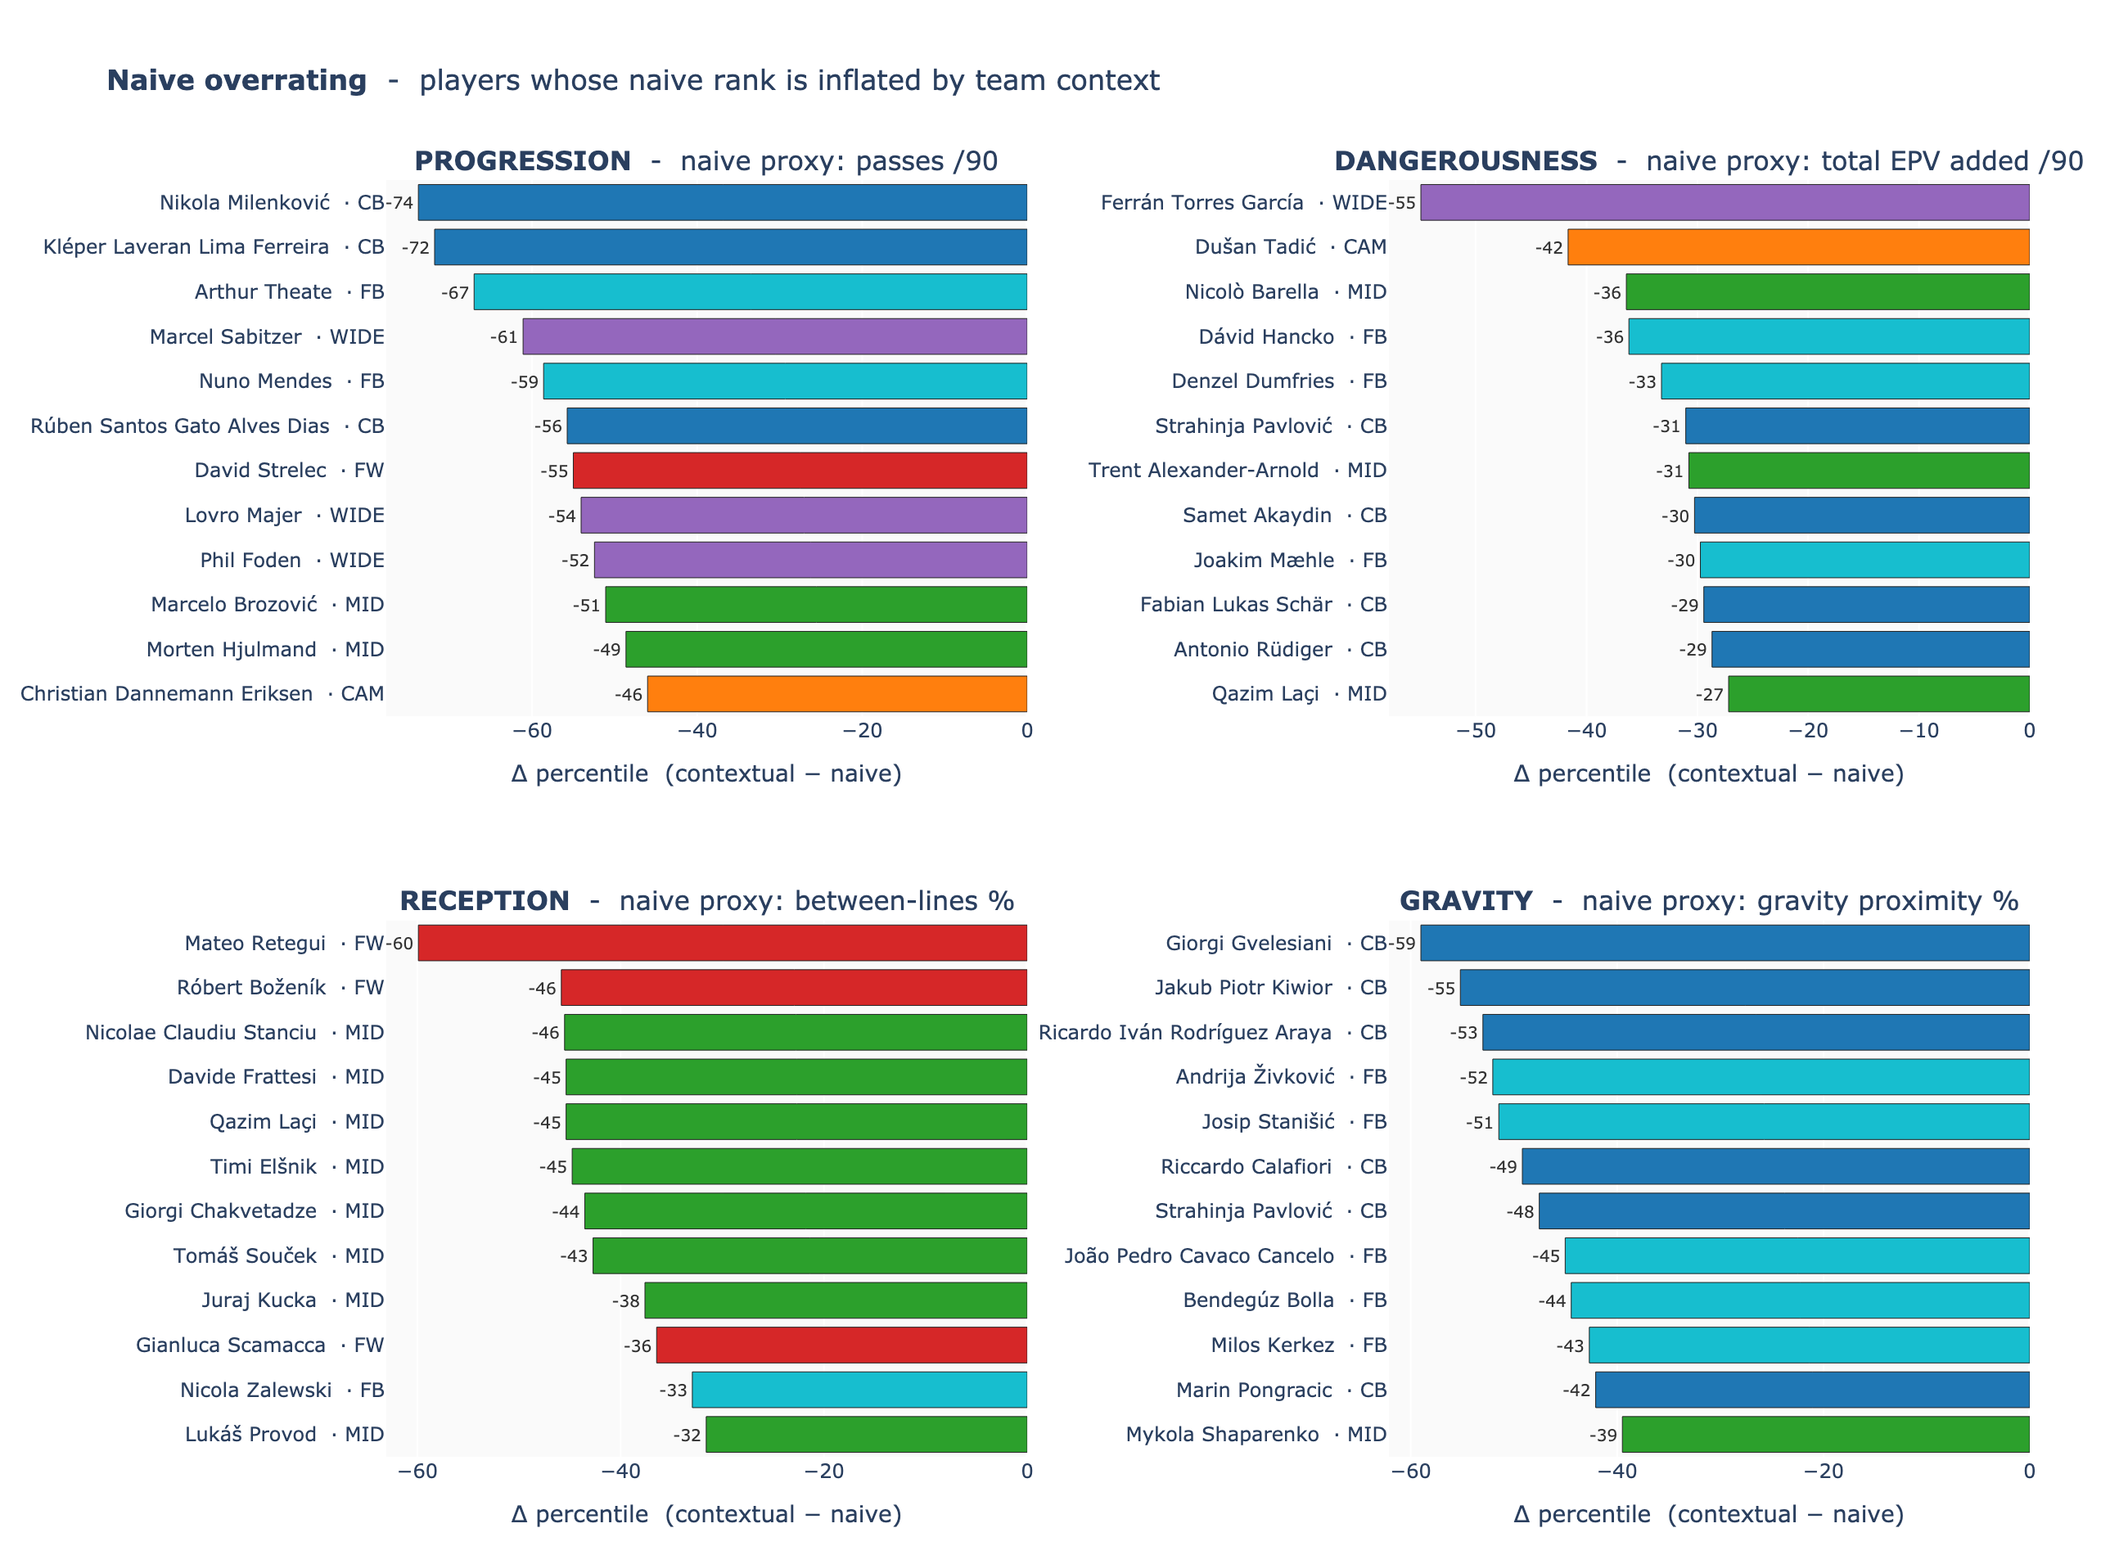
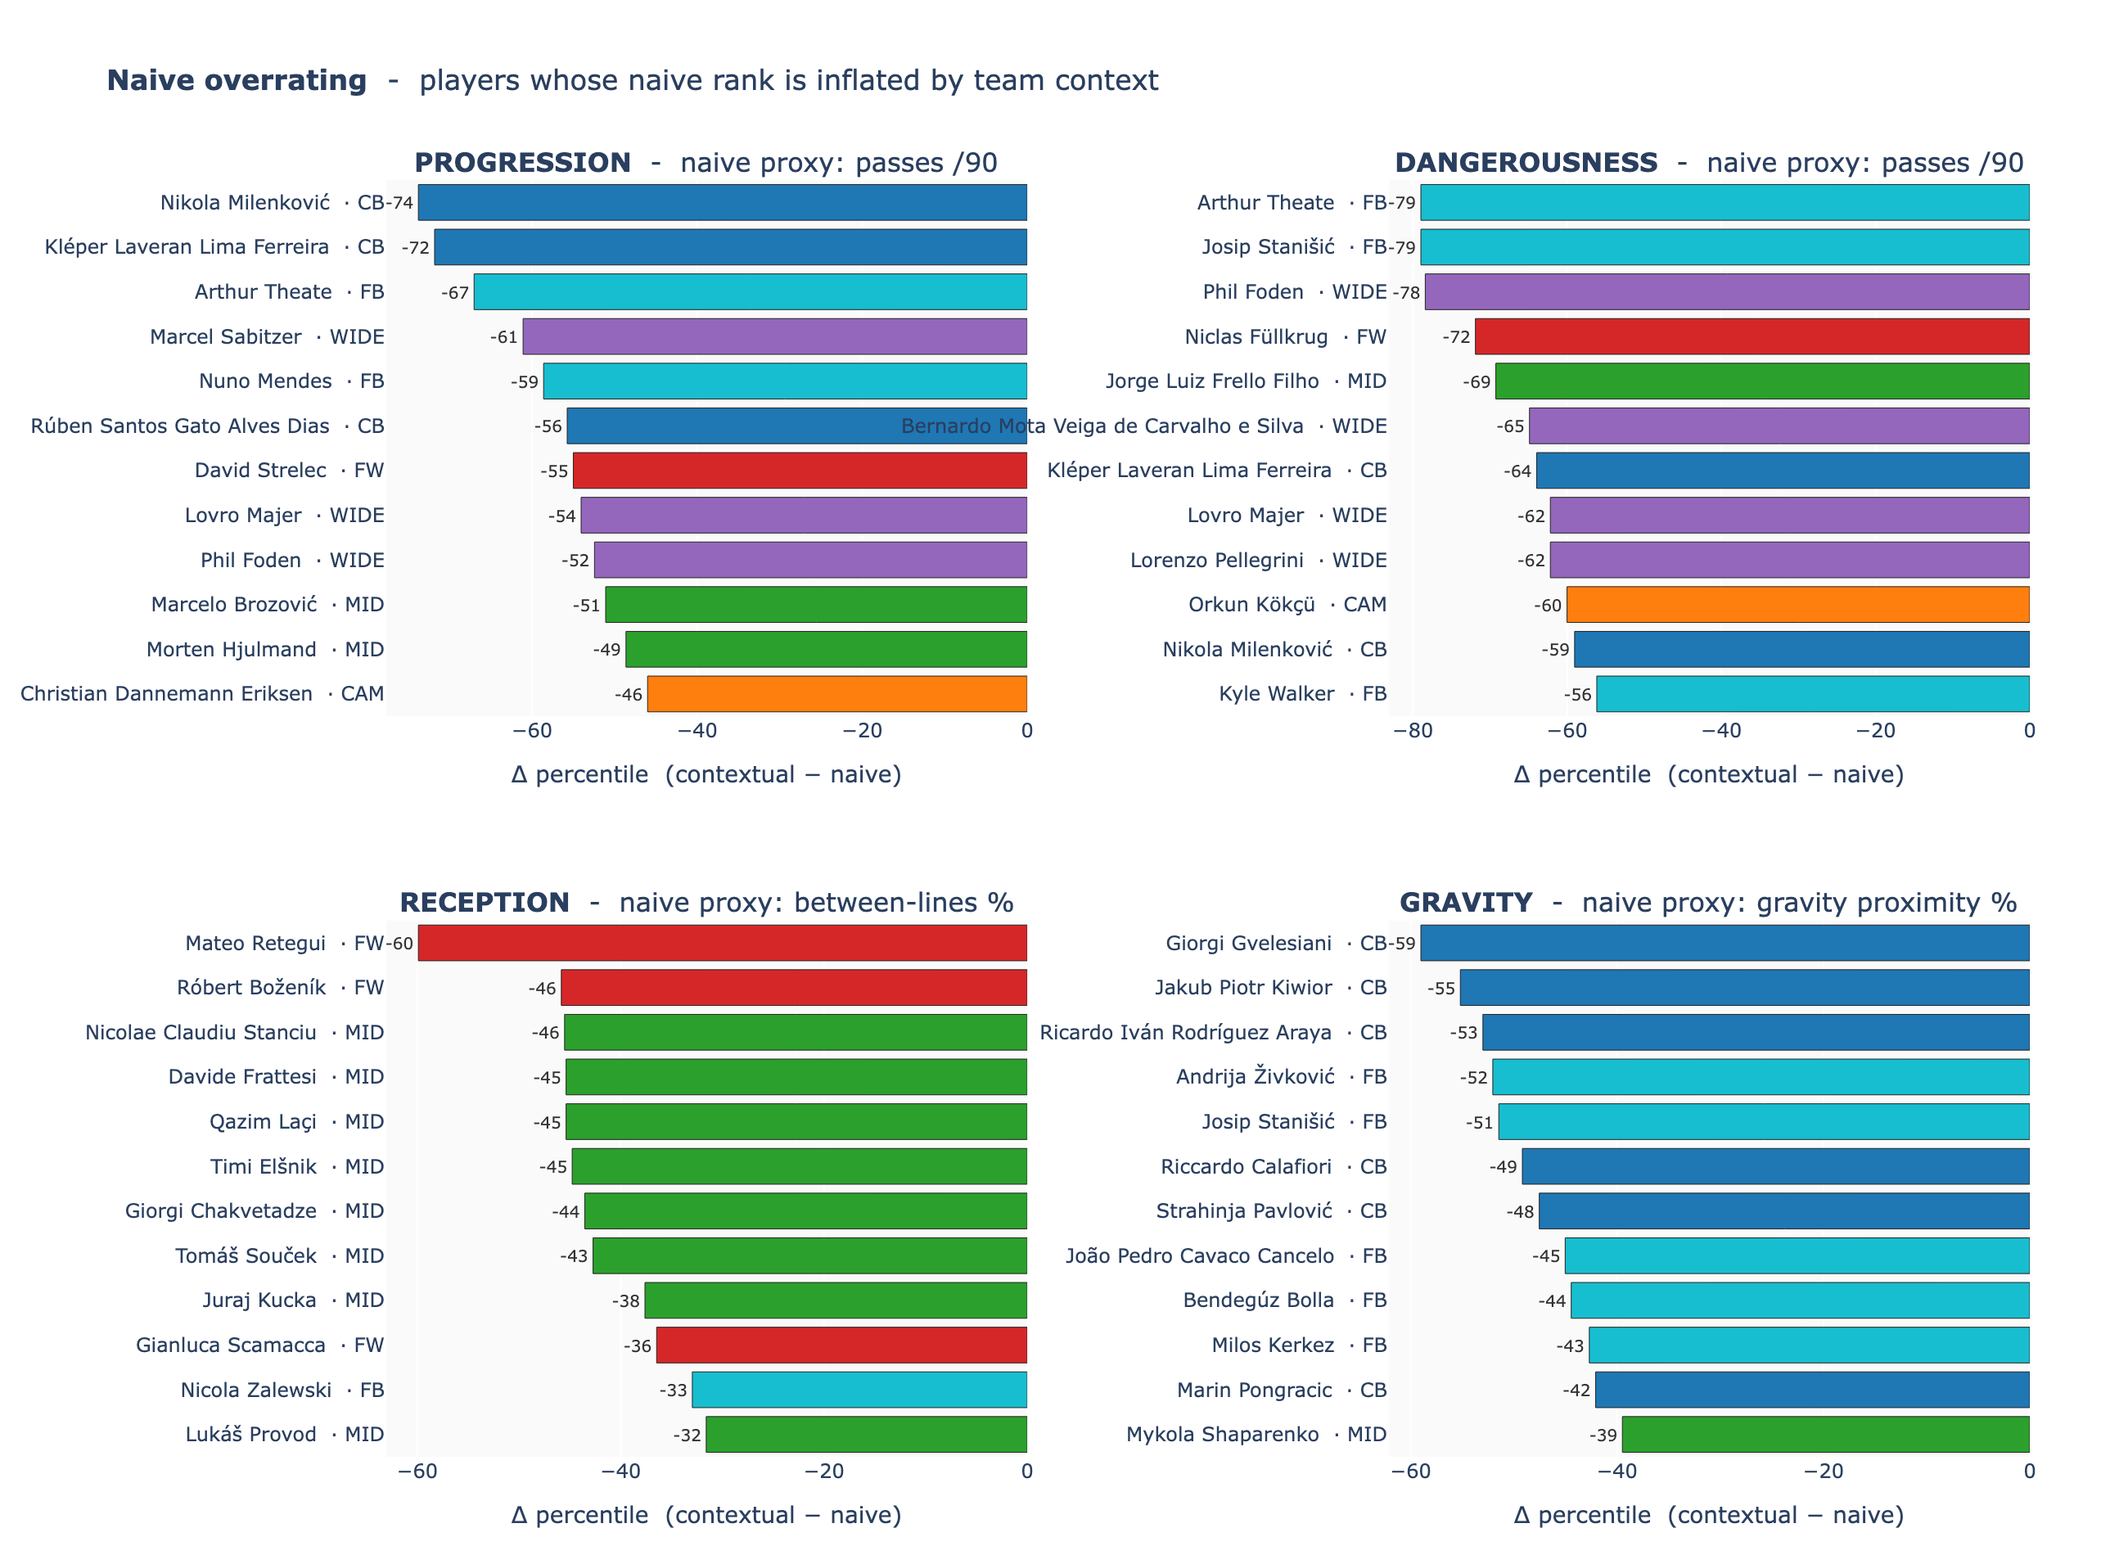
Upgrade README H1

diff --git a/Space_Control_and_Value/README.md b/Space_Control_and_Value/README.md
@@ -8,7 +8,9 @@ Built on **StatsBomb 360 open data** for UEFA Euro 2024 (`competition_id=55`, `s
 
 ## The four indices
 
-Each index is the **mean of within-role percentile ranks** of its mother variables (a CB is benchmarked against other CBs, a CAM against other CAMs). Within-role percentiles are the heart of the approach: a centre-back ranked 90th on PROGRESSION is among the best 10% of *centre-backs* at progressing the ball, not the best 10% of the whole tournament.
+Three of the four (PROGRESSION, RECEPTION, GRAVITY) are **stylistic composites**: their headline is the mean of within-role percentile ranks of their mother variables. The fourth (DANGEROUSNESS) is a **magnitude**: a single within-role percentile of `EPV Added /90`, with the four EPV by-geom_type components used only for the radar profile. The distinction matters because EPV creation is by construction additive (the four components *sum* to `EPV Added /90`), while progression style, reception style and gravity style are not.
+
+Within-role percentiles are the heart of the approach in every case: a centre-back ranked 90th on PROGRESSION is among the best 10% of *centre-backs* at progressing the ball, not the best 10% of the whole tournament.
 
 Quick glossary: **convex hull** = polygon enclosing the visible opponents in the 360 frame; **line-breaker** = successful pass that bypasses ≥ 3 opponents inside a 5 m corridor along the pass line; **EPV** = probability of scoring in the next actions given the ball location.
 
@@ -20,13 +22,13 @@ How often, and how cleanly, a player moves the ball through opponent lines. Moth
 
 The first three count line-breakers under three lenses (geometric corridor, EPV threshold, the intersection of the two). `Hull Penetr. /90` is the volume of successful passes that *enter* the opposing block. `Def. Bypassed Avg` is the mean number of opponents removed from play per progressive pass. A player can score high here in two ways: by being a high-volume metronome (Kroos, Modrić) or by being a vertical specialist on lower volume (Alexander-Arnold).
 
-### DANGEROUSNESS, threat creation in the final third
+### DANGEROUSNESS, the magnitude of EPV creation
 
-How much expected value a player generates in the 18 m around goal, on a per-90 basis. Mother variables (3):
+The total expected possession value a player generates per 90 minutes. Unlike the other three, DANGEROUSNESS is **not** a stylistic composite. The headline is the **within-role percentile of `EPV Added /90`** alone, a direct magnitude. The radar that decomposes it shows the **four additive EPV by-geom_type per-90 components** (they sum to `EPV Added /90`, by construction):
 
-`EPV Added /90` + `EPV Penetr. /90` + `Circ. EPV /90`
+`EPV Penetr. /90` + `EPV In-Circ /90` + `EPV Exit /90` + `EPV Out-Circ /90`
 
-`EPV Added /90` is the per-90 sum of `epv_end − epv_start` on completed passes. `EPV Penetr. /90` isolates the same quantity on hull-penetrating passes only. `Circ. EPV /90` captures the EPV produced inside the 18 m circle around goal, the "danger zone" of every shot map. The signal here is closer to the public expected-assists narrative, by construction, so the H1 contextual vs naive gap is the smallest of the four.
+`EPV Penetr. /90` is the value added on passes that *enter* the opposing block. `EPV In-Circ /90` is the value circulated *inside* the block. `EPV Exit /90` is the value of clean ball-exits from inside the block back out. `EPV Out-Circ /90` is the value circulated outside the block. Reading the four together explains *where* a player's EPV comes from: a centre-back will produce value mostly through `Out-Circ` and `Penetr.`, a between-the-lines CAM mostly through `In-Circ` and `Exit`, a winger drifting inside through `Penetr.` and `In-Circ`. The single magnitude (`EPV Added /90`) keeps the headline honest, the four sub-components keep the profile interpretable.
 
 ### RECEPTION, between-the-lines play and tight-space technique
 
@@ -76,13 +78,13 @@ StatsBomb events + 360 frames
   Validation                  Cronbach's α + H1 evidence + scouting discoveries
 ```
 
-## Website graphic: the 4-axis radar
+## Website graphic: the family radar
 
-The card on the site renders one **filled polygon per player**, one axis per index, all four oriented so outside is better. PROGRESSION, DANGEROUSNESS, RECEPTION and GRAVITY are already within-role percentiles, so no mirroring is needed. The two-player comparison page overlays two polygons (same macro-role only, the picker prevents cross-role duels upstream).
+The single-player card renders **four small radars side by side**, one per index. PROGRESSION, RECEPTION and GRAVITY each show the within-role percentiles of their mother variables (5, 3 and 3 axes respectively). DANGEROUSNESS shows its four additive EPV by-geom_type components (Penetr., In-Circ, Exit, Out-Circ): the polygon's area scales with the magnitude headline, the four directions tell you *where* the EPV is coming from. All axes are oriented so outside is better.
 
-The reading of the shape is direct. A balanced polygon is a balanced player (Kroos on MIDs has a near-regular quadrilateral). A spike on DANGEROUSNESS with a low GRAVITY is a finisher who does not pull defenders (a poacher). A spike on RECEPTION with low PROGRESSION is a between-the-lines receiver who does not progress the ball himself (a classic 10 in a possession side). A spike on PROGRESSION with low DANGEROUSNESS is a deep-lying playmaker. The same logic applies in every role.
+The two-player comparison page overlays two polygons per radar (same macro-role only, the picker prevents cross-role duels upstream). Reading the shapes is direct. A balanced PROGRESSION polygon is a balanced progressor (Kroos on MIDs). A DANGEROUSNESS polygon stretched on Penetr. + In-Circ with a thin Out-Circ is a final-third finisher; a polygon stretched on Out-Circ with thin Penetr. is a deep distributor whose EPV comes from build-up volume, not penetration. A RECEPTION spike with low PROGRESSION is a between-the-lines receiver who does not progress the ball himself (a classic 10 in a possession side).
 
-A **CORE STATS table** under the radar exposes the 14 within-role percentiles that *feed* the four axes, plus minutes, role, and the two annotations carried in the CSV (`gravity_composite_pct`, `gravity_directional_m`). The radar is the headline, the table is the diagnostic.
+A **CORE STATS table** under the radars exposes the within-role percentiles that *feed* the axes, plus minutes, role, and the two annotations carried in the CSV (`gravity_composite_pct`, `gravity_directional_m`). The radars are the headline, the table is the diagnostic.
 
 ## Key findings
 
@@ -96,17 +98,21 @@ A scout-first read of the Euro 2024 leaderboards on the four indices, with the m
 - **Alessandro Bastoni** (Italy, CB) and **Joachim Andersen** (Denmark, CB) at 94th and 92nd among CBs, two ball-playing centre-backs whose `LB EPV /90` is comparable to that of central midfielders.
 - **Bruno Fernandes** (Portugal, MID, n=379) at 90th, lower than the public reputation on his "passing" because the volume of safe passes deflates `LB Quality /90`.
 
-### DANGEROUSNESS, where naive and contextual agree the most
+### DANGEROUSNESS, where the volume view fails the hardest
 
-This is the index closest to the public expected-assists narrative, so the top is full of recognised names. **Arda Güler** (Turkey, FW, n=369), **Bruno Fernandes** (Portugal, MID), **Antonio Rüdiger** (Germany, CB, n=488 minutes) and **Joachim Andersen** (Denmark, CB) all sit at 98–100 inside their role. Rüdiger at the top of the CB role on this index is the kind of finding the naive view never produces, the role pool puts his per-90 EPV contribution on a level no other CB matches.
+This is the index where the contextual approach moves the leaderboard *most*. The headline is the within-role percentile of EPV Added /90, the naive proxy is `passes /90`. The two disagree by more than 20 percentile points on **54%** of the pool, the largest disagreement of all four indices. The reading is direct: ball volume is a very poor predictor of *value created*.
 
-A counter-intuitive read in this group is **Phil Foden** (England, WIDE), 11th on DANGEROUSNESS. His EPV contribution per 90 is genuinely modest in the Euro 2024 sample, the naive view ranks him much higher because of touches and shot volume, not value-added.
+- **Arda Güler** (Turkey, FW, n=369), **Bruno Fernandes** (Portugal, MID, n=379), **Antonio Rüdiger** (Germany, CB, n=488) and **Joachim Andersen** (Denmark, CB) all sit at 98–100 inside their role. Rüdiger and Andersen sitting at the top of the CB pool on EPV /90 *and* in the top tier on raw passing volume is the kind of read the naive view *partially* surfaces, but the radar profile (Out-Circ at 100, Penetr. at 84) clarifies that they are not just high-volume distributors, they are also actively penetrating from the back.
+- **Tomáš Souček** (Czech Rep, MID, +80 Δ), **Heorhii Tsitaishvili** (Ukraine, FB, +75 Δ) and **Ivan Perišić** (Croatia, FB, +74 Δ) are role-level discoveries with the largest naive-to-contextual shifts in the pool. Souček in particular is the headline of this group: 3rd percentile by `passes /90` among MIDs, 83rd by EPV /90. A player whose passing volume is genuinely low but whose every involvement moves the value needle (his radar peaks on Exit at 100, In-Circ at 72: the box-arriving CDM who breaks out of pressed phases).
+- A counter-intuitive read here is **Phil Foden** (England, WIDE), 11th percentile on DANGEROUSNESS (bottom of the WIDE role pool). His EPV contribution per 90 is genuinely modest in the Euro 2024 sample, the naive view ranks him higher because of touches and shot volume, not value-added.
+
+The radar (the four EPV by-geom_type sub-components) reads as a profile under the headline. Rüdiger's EPV is concentrated on Out-Circ and Penetr. (the centre-back fingerprint, value built in the build-up *and* into the block). Güler peaks on Penetr. and Out-Circ at the same time (the receiver-finisher who also gets EPV from his deep starts when drifting back to receive).
 
 ### RECEPTION, the between-the-lines fingerprint
 
 - **Pedri** (Spain, CAM, n=185') at 98th. The clearest "between-the-lines" CAM of the tournament, with the highest `Between Lines %` of any CAM and very strong `Press. Resist %`.
 - **Florian Wirtz** (Germany, WIDE) at 90th, the highest of the WIDE pool. Wide attackers normally score low here because they receive on the touchline, Wirtz is the exception because he comes inside.
-- **Riccardo Calafiori** (Italy, CB), **Mykola Matvienko** (Ukraine, CB), **Ladislav Krejčí** (Czech Rep, CB), **Willi Orban** (Hungary, CB), **Nacho Fernández** (Spain, CB), a cluster of ball-playing centre-backs at 88–93 on a role pool that traditionally scores low. The signal is `Press. Resist %`, these CBs survive 2 m pressure at midfielder-level rates.
+- **Riccardo Calafiori** (Italy, CB), **Mykola Matvienko** (Ukraine, CB), **Ladislav Krejčí** (Czech Rep, CB), **Willi Orban** (Hungary, CB), **Nacho Fernández** (Spain, CB), a cluster of ball-playing centre-backs at 88–93 inside the CB pool. CBs typically take very few touches inside the opposing block in raw terms (the role median `Between Lines %` is about 4%, against 52% for CAMs), so the within-role pool surfaces the *ball-playing* CBs cleanly: a CB at 90th here is genuinely the kind who steps into the half-space to receive, not just the median back-line passer.
 - **Breel Embolo** (Switzerland, FW) at 89th, a centre-forward whose between-the-lines reception rate beats most CAMs. Reads as the modern "drop nine" profile.
 
 ### GRAVITY, the names volume never surfaces
@@ -127,7 +133,7 @@ A separate finding sits in the famous-names column. **Joshua Kimmich** (Germany,
 | Index | Mean α | Reading |
 |---|---:|---|
 | PROGRESSION | **0.77** | tight construct, the 5 variables measure the same dimension |
-| DANGEROUSNESS | **0.54** | acceptable for a multi-faceted index |
+| DANGEROUSNESS | **0.32** | diagnostic only, the four radar axes are *additive* EPV components of `EPV Added /90`, not a reflective composite. The headline is a single percentile, α is reported just to read the sub-profile |
 | RECEPTION | **0.41** | composite, high on CB and CAM, low on FW (small sample) |
 | GRAVITY | **−0.03** | **multi-directional** construct, the three variables capture different phenomena (expected, not a flaw) |
 
@@ -137,12 +143,14 @@ The four composites are **weakly correlated with each other** (|r| ≤ 0.56 acro
 
 | Index | Naive proxy | Spearman ρ | mean \|Δ\| | % \|Δ\| > 20 |
 |---|---|---:|---:|---:|
-| PROGRESSION | passes /90 | **0.47** | 21.7 | **47%** |
-| DANGEROUSNESS | total EPV /90 | 0.84 | 12.7 | 21% |
+| PROGRESSION | passes /90 | 0.47 | 21.7 | 47% |
+| DANGEROUSNESS | passes /90 | **0.28** | **27.8** | **54%** |
 | RECEPTION | between-lines % | 0.75 | 14.9 | 29% |
 | GRAVITY | gravity proximity % | 0.60 | 18.5 | 39% |
 
-Reading: PROGRESSION is where the gap hits hardest. Almost one player in two shifts by more than 20 percentile points moving from the naive ranking to the contextual one. For MIDs, the naive top-15 (passes/90) and the contextual top-15 (PROGRESSION) overlap on only 10/15. **Five new names** enter (Trent Alexander-Arnold, Mateo Kovačić, Robert Andrich and two others) and as many drop out.
+Reading: **DANGEROUSNESS** is where the gap hits hardest. More than one player in two shifts by more than 20 percentile points moving from the naive ranking (ball volume) to the contextual one (EPV magnitude). The DANGEROUSNESS proxy is `passes /90` and not `EPV /90` by design: the index headline is itself the within-role percentile of `EPV /90`, so comparing it to `EPV /90` would be tautological. The honest naive baseline is "do the high-EPV players just play more passes?", and the answer here is a clear no.
+
+A second illustration of the same gap, on PROGRESSION. For MIDs, the naive top-15 by `passes /90` and the contextual top-15 by PROGRESSION overlap on only 10/15: **five new names** enter (Trent Alexander-Arnold, Mateo Kovačić, Robert Andrich, Fabián Ruiz, Youri Tielemans) and as many drop out (Brozović, Hjulmand, Cristante, Veerman, Rodri).
 
 ### Scouting discoveries, players surfaced only by context
 
